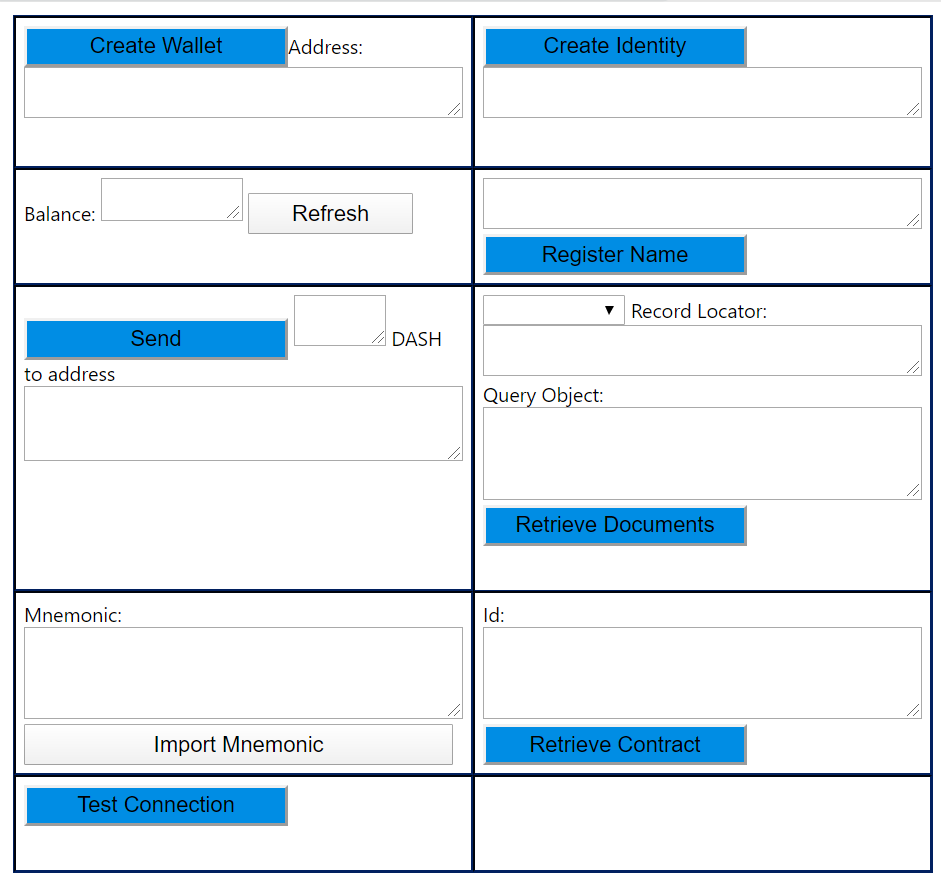
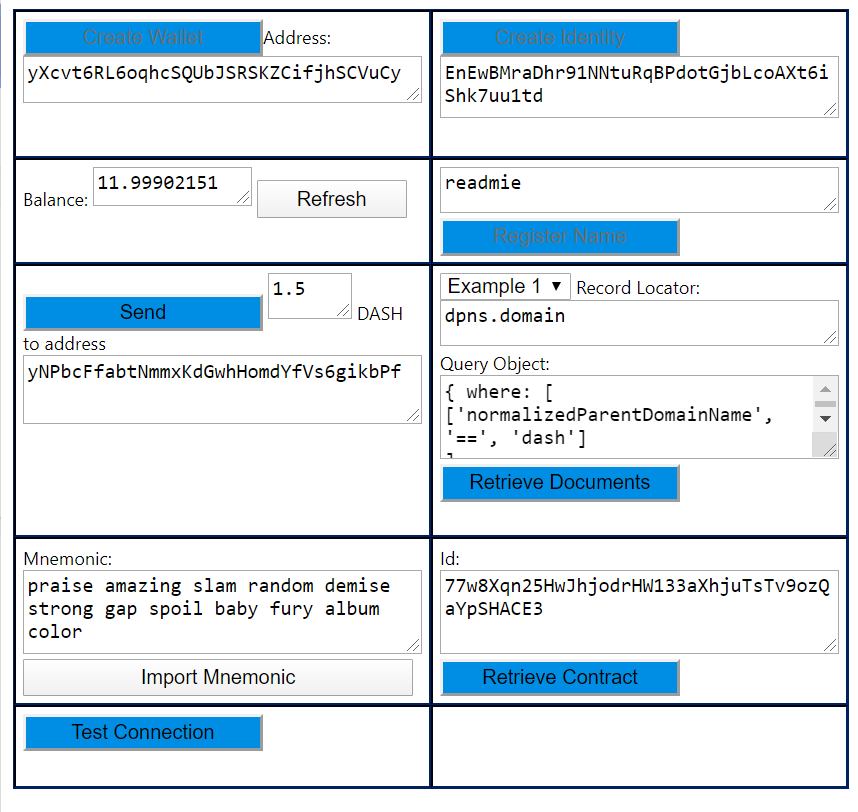
update and last fixes

Changed region(s): [[0.0, 0.0, 1.0, 1.0]]

diff --git a/popup.html b/popup.html
@@ -18,7 +18,7 @@
             Wallet</button>Address: <textarea style="width: 260px; height: 25px;" readonly="readonly" cols="1" rows="1"
             id="addressText"></textarea> </td>
         <td style="vertical-align: top;"><button style="width: 160px; height: 25px; background-color: rgb(0, 141, 228);"
-            id="identityBtn">Create Identity</button><textarea style="width: 260px; height: 25px;" id="identityText"
+            id="identityBtn">Create Identity</button><textarea style="width: 260px; height: 35px;" id="identityText"
             readonly="readonly" cols="1" rows="1"></textarea></td>
 
 

diff --git a/popup.js b/popup.js
@@ -110,9 +110,9 @@ document.addEventListener('DOMContentLoaded', function () {
 
 		chrome.runtime.sendMessage({ greeting: "registerName", name: nameText.value }, function (response) {
 
-			// chrome.storage.local.get('name', function (data) {
-			// 	nameText.value = data.name;
-			// });
+			chrome.storage.local.get('name', function (data) {
+				nameText.value = data.name;
+			});
 			nameText.readOnly = true;
 			nameBtn.disabled = true;
 			chrome.extension.getBackgroundPage().console.log(response.farewell);

diff --git a/background.js b/background.js
@@ -228,7 +228,7 @@ chrome.runtime.onMessage.addListener(
         }
       }
 
-      registerName();
+      await registerName();
       sendResponse({ farewell: "goodbye registerName" });
     }
 
